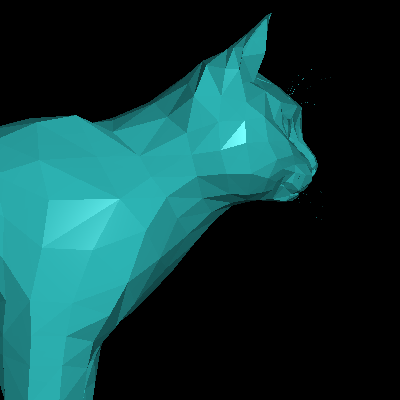
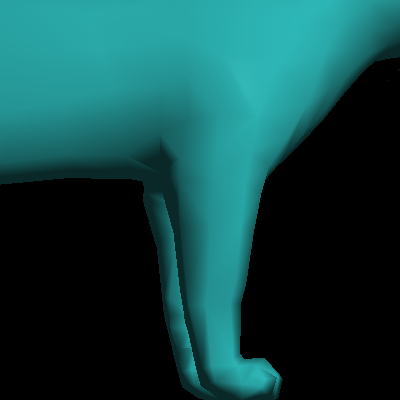
Implemented smooth shading for trangles

diff --git a/Code/raytracer.cpp b/Code/raytracer.cpp
@@ -67,10 +67,13 @@ bool Raytracer::parseObjectNode(json const &node)
         OBJLoader obj = OBJLoader(model);
         vector<Vertex> vertices = obj.vertex_data();
         for (uint i = 0; i < vertices.size(); i += 3) {
-            Point v0 = Point(vertices[i+0].x*2000-500, vertices[i+0].y*2000-500, vertices[i+0].z*2000-1000);
-            Point v1 = Point(vertices[i+1].x*2000-500, vertices[i+1].y*2000-500, vertices[i+1].z*2000-1000);
-            Point v2 = Point(vertices[i+2].x*2000-500, vertices[i+2].y*2000-500, vertices[i+2].z*2000-1000);
-            ObjectPtr obj = ObjectPtr(new Triangle(v0, v1, v2));
+            Point v0 = Point(vertices[i+0].x*1000, vertices[i+0].y*1000, vertices[i+0].z*1000);
+            Vector n0 = Vector(vertices[i+0].nx, vertices[i+0].ny, vertices[i+0].nz);
+            Point v1 = Point(vertices[i+1].x*1000, vertices[i+1].y*1000, vertices[i+1].z*1000);
+            Vector n1 = Vector(vertices[i+1].nx, vertices[i+1].ny, vertices[i+1].nz);
+            Point v2 = Point(vertices[i+2].x*1000, vertices[i+2].y*1000, vertices[i+2].z*1000);
+            Vector n2 = Vector(vertices[i+2].nx, vertices[i+2].ny, vertices[i+2].nz);
+            ObjectPtr obj = ObjectPtr(new Triangle(v0, v1, v2, n0, n1, n2));
             obj->material = material;
             scene.addObject(obj);
         }

diff --git a/Code/shapes/triangle.cpp b/Code/shapes/triangle.cpp
@@ -22,6 +22,7 @@ Hit Triangle::intersect(Ray const &ray)
 		return Hit::NO_HIT();
 	
 	double t = (e2.dot(Q))/a;
+	Vector norm = ((1-u-v)*norm0) + (u*norm1) + (v*norm2);
 
 	return Hit(t, norm);
 }
@@ -30,7 +31,22 @@ Triangle::Triangle(Point const &v0, Point const &v1, Point const &v2)
 :
     v0(v0),
     e1(v1 - v0),
+    e2(v2 - v0)
+{
+	norm0 = e1.cross(e2).normalized();
+	norm1 = norm0;
+	norm2 = norm1;
+}
+
+Triangle::Triangle(
+        	Point const &v0, Point const &v1, Point const &v2,
+        	Vector norm0, Vector norm1, Vector norm2)
+:
+    v0(v0),
+    e1(v1 - v0),
     e2(v2 - v0),
-    norm(e1.cross(e2).normalized())
+    norm0(norm0),
+    norm1(norm1),
+    norm2(norm2)
 {
 }

diff --git a/Code/shapes/triangle.h b/Code/shapes/triangle.h
@@ -7,13 +7,18 @@ class Triangle: public Object
 {
     public:
         Triangle(Point const &v0, Point const &v1, Point const &v2);
+        Triangle(
+        	Point const &v0, Point const &v1, Point const &v2,
+        	Vector norm0, Vector norm1, Vector norm2);
 
         virtual Hit intersect(Ray const &ray);
 
         Point const v0;
         Point const e1;
         Point const e2;
-        Vector const norm;
+        Vector norm0;
+        Vector norm1;
+        Vector norm2;
 };
 
 #endif
